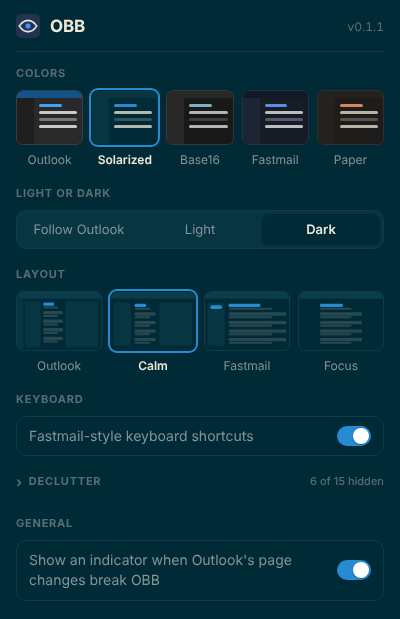
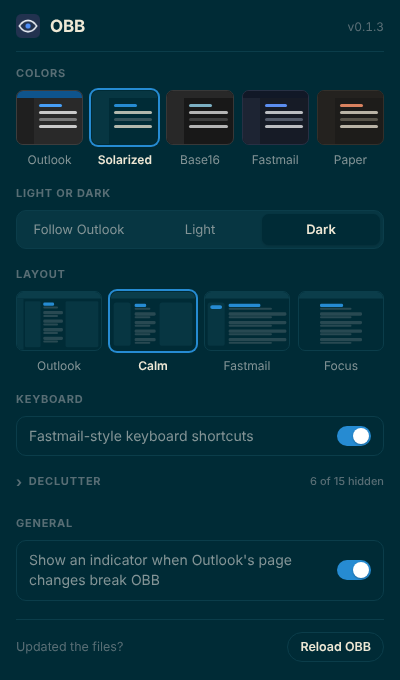
Smooth installs and updates: dist branch, pinned extension id, Reload button
- `mise run release` publishes the build to a `dist` branch (fast-forward only) and zips it;
  CI runs it after green pushes to main and creates a GitHub Release for new versions
- Manifest `key` pins the extension id, so settings survive updates and folder moves
- Popup footer has Reload OBB (chrome.runtime.reload); tabs left on the old content script
  show a one-time "reload this tab" toast
- README install is now clone-once, `git pull` to update

Claude-Session: https://claude.ai/code/session_01NkkmTwGm6oubhSDtYVHp41

diff --git a/scripts/release.ts b/scripts/release.ts
@@ -1,0 +1,87 @@
+// Publishes the built extension (dist/) so installs and updates need no build tools:
+// - commits it to the `dist` branch, which people clone once and `git pull` to update;
+// - writes .cache/obb-<version>.zip for a GitHub Release.
+// Usage: node scripts/release.ts [--push]   (mise run release builds first)
+// Runs the same locally and in CI (.github/workflows/ci.yml).
+
+import { execFileSync } from "node:child_process";
+import { cp, mkdir, readdir, readFile, rm, writeFile } from "node:fs/promises";
+import path from "node:path";
+
+const push = process.argv.includes("--push");
+const git = (args: string[], cwd = ".", quiet = false) =>
+  execFileSync("git", args, {
+    cwd,
+    encoding: "utf8",
+    stdio: ["ignore", "pipe", quiet ? "ignore" : "inherit"],
+  }).trim();
+
+const { version } = JSON.parse(await readFile("dist/manifest.json", "utf8")) as { version: string };
+const source = git(["rev-parse", "--short", "HEAD"]);
+const tree = path.resolve(".cache/dist-branch");
+
+// A worktree on `dist`: the existing branch if there is one, otherwise a fresh orphan.
+await rm(tree, { recursive: true, force: true });
+git(["worktree", "prune"]);
+let exists = true;
+try {
+  git(["fetch", "--quiet", "origin", "dist"], ".", true);
+} catch {
+  exists = false;
+}
+if (exists) {
+  git(["worktree", "add", "--quiet", "-B", "dist", tree, "origin/dist"]);
+} else {
+  git(["worktree", "add", "--quiet", "--detach", tree]);
+  git(["checkout", "--quiet", "--orphan", "dist"], tree);
+  git(["rm", "-rf", "--quiet", "."], tree);
+}
+
+// Replace everything but .git with the build and a short README.
+for (const entry of await readdir(tree)) {
+  if (entry !== ".git") await rm(path.join(tree, entry), { recursive: true, force: true });
+}
+await cp("dist", tree, { recursive: true, filter: (f) => !f.endsWith(".map") });
+await writeFile(
+  path.join(tree, "README.md"),
+  `# OBB ${version}
+
+Built from \`${source}\` on main. Load this folder in Chrome (chrome://extensions → Developer mode
+→ Load unpacked). To update: \`git pull\` here, then click **Reload OBB** in the OBB popup and
+refresh Outlook. Source and docs are on the main branch.
+`,
+);
+
+git(["add", "--all"], tree);
+const changed = git(["status", "--porcelain"], tree) !== "";
+if (changed) {
+  git(
+    [
+      "-c",
+      "user.name=OBB release",
+      "-c",
+      "user.email=obb-release@users.noreply.github.com",
+      "commit",
+      "--quiet",
+      "-m",
+      `OBB ${version} (built from ${source})`,
+    ],
+    tree,
+  );
+  console.log(`dist branch: committed OBB ${version}`);
+} else {
+  console.log("dist branch: already up to date");
+}
+if (push && (changed || !exists)) {
+  git(["push", "--quiet", "origin", "dist"], tree);
+  console.log("dist branch: pushed");
+}
+
+// The zip for a GitHub Release.
+await mkdir(".cache", { recursive: true });
+const zip = path.resolve(`.cache/obb-${version}.zip`);
+await rm(zip, { force: true });
+execFileSync("zip", ["-qr", zip, ".", "-x", ".git*", "-x", "*.map"], { cwd: tree });
+console.log(`wrote ${path.relative(".", zip)}`);
+
+git(["worktree", "remove", "--force", tree]);

diff --git a/src/content.ts b/src/content.ts
@@ -13,7 +13,7 @@ import {
   tagElements,
 } from "./selectors.ts";
 import { applyToDocument, loadSettings, onSettingsChanged, type Settings } from "./settings.ts";
-import { isFromOverlay, isModalOpen, showHealthBadge, showHint } from "./ui/overlay.ts";
+import { isFromOverlay, isModalOpen, showHealthBadge, showHint, toast } from "./ui/overlay.ts";
 
 const LOG = "[obb]";
 const APP_READY_TIMEOUT_MS = 20_000;
@@ -119,6 +119,21 @@ function watchPage(): void {
   }).observe(document.body, { childList: true, subtree: true });
 }
 
+let orphanNoticeShown = false;
+
+/**
+ * After OBB is reloaded or updated, this copy of the content script keeps running in tabs that
+ * were already open, cut off from the extension. Say so once instead of half-working.
+ */
+function isOrphaned(): boolean {
+  if (chrome.runtime?.id) return false;
+  if (!orphanNoticeShown) {
+    orphanNoticeShown = true;
+    toast("OBB was updated. Reload this tab to use the new version.", 8000);
+  }
+  return true;
+}
+
 function isEditable(target: EventTarget | undefined): boolean {
   if (!(target instanceof HTMLElement)) return false;
   return target.isContentEditable || /^(INPUT|TEXTAREA|SELECT)$/.test(target.tagName);
@@ -131,6 +146,7 @@ function mountKeymap(): void {
     "keydown",
     (event) => {
       if (!settings.keymap || !event.isTrusted || isFromOverlay(event) || isModalOpen()) return;
+      if (isOrphaned()) return;
       if (isEditable(event.composedPath()[0])) return;
       const key = keyFromEvent(event);
       if (key === null) return;

diff --git a/test/e2e/harness.ts b/test/e2e/harness.ts
@@ -3,7 +3,7 @@
 // aborted. Also used by scripts/screenshots.ts, which lets Outlook's public CDN through for fonts.
 
 import { createHash } from "node:crypto";
-import { existsSync } from "node:fs";
+import { existsSync, readFileSync } from "node:fs";
 import { readFile } from "node:fs/promises";
 import path from "node:path";
 import { type BrowserContext, chromium, type Page } from "playwright";
@@ -68,9 +68,10 @@ export async function openFixture(
   return page;
 }
 
-/** Chrome derives an unpacked extension's id from its folder path: sha256, hex digits as a–p. */
+/** Chrome derives the id from the manifest's public key: sha256, first 32 hex digits as a–p. */
 export function extensionId(): string {
-  const hex = createHash("sha256").update(path.resolve("dist")).digest("hex").slice(0, 32);
+  const { key } = JSON.parse(readFileSync("manifest.json", "utf8")) as { key: string };
+  const hex = createHash("sha256").update(Buffer.from(key, "base64")).digest("hex").slice(0, 32);
   return [...hex].map((c) => String.fromCharCode(97 + Number.parseInt(c, 16))).join("");
 }
 

diff --git a/src/options/options.css b/src/options/options.css
@@ -375,6 +375,32 @@ details[open] > .toggles {
   margin-top: 8px;
 }
 
+footer {
+  display: flex;
+  align-items: center;
+  justify-content: space-between;
+  gap: 12px;
+  margin-top: 18px;
+  padding-top: 12px;
+  border-top: 1px solid var(--ol-faint);
+  font-size: 12.5px;
+  color: var(--ol-muted);
+}
+
+footer button {
+  all: unset;
+  cursor: pointer;
+  padding: 5px 12px;
+  border-radius: 999px;
+  border: 1px solid var(--ol-faint);
+  color: var(--ol-fg-strong);
+  font-weight: 600;
+}
+
+footer button:hover {
+  background: var(--ol-hover);
+}
+
 :is(button, input, summary):focus-visible {
   outline: 2px solid var(--ol-accent);
   outline-offset: 2px;

diff --git a/src/options/options.ts b/src/options/options.ts
@@ -220,6 +220,8 @@ function render(settings: Settings): void {
 async function main(): Promise<void> {
   const version = document.getElementById("version");
   if (version) version.textContent = `v${chrome.runtime.getManifest().version}`;
+  // Picks up new files on disk (after `git pull` in the install folder); see README.
+  document.getElementById("reload")?.addEventListener("click", () => chrome.runtime.reload());
   let settings = await loadSettings();
   render(settings);
   onSettingsChanged((next) => {

diff --git a/src/options/options.html b/src/options/options.html
@@ -12,6 +12,10 @@
       <span id="version"></span>
     </header>
     <main id="settings"></main>
+    <footer>
+      <span>Updated the files?</span>
+      <button type="button" id="reload">Reload OBB</button>
+    </footer>
     <script src="options.js"></script>
   </body>
 </html>

diff --git a/README.md b/README.md
@@ -84,16 +84,33 @@ Accessibility) first; OBB builds on them.
 
 ## Install
 
+OBB isn't in the Chrome Web Store, so Chrome loads it from a folder. The `dist` branch always
+holds the latest build, so installing and updating are one `git` command each.
+
+**Install once:**
+
 ```sh
-mise install && mise run install   # Node (pinned in mise.toml) and dependencies
-mise run build                     # writes dist/
+git clone --branch dist --single-branch https://github.com/krwenholz/outlook-but-better.git ~/OBB
 ```
 
-Open `chrome://extensions`, turn on **Developer mode**, choose **Load unpacked**, and pick `dist/`.
-Pin OBB from Chrome's puzzle-piece menu for one-click settings.
+Then open `chrome://extensions`, turn on **Developer mode**, choose **Load unpacked**, and pick
+`~/OBB`. Pin OBB from Chrome's puzzle-piece menu for one-click settings.
+
+**Update:**
+
+```sh
+git -C ~/OBB pull
+```
+
+Then click **Reload OBB** at the bottom of the OBB popup and refresh Outlook. Your settings carry
+over: OBB's extension id is fixed, so it survives updates and even moving the folder.
+
+Prefer a download? Each version is also a zip on the
+[Releases](https://github.com/krwenholz/outlook-but-better/releases) page.
 
 ## Develop
 
+To work on OBB itself: `mise install && mise run install`, then load `dist/` instead of `~/OBB`.
 `mise run dev` rebuilds on change (reload the extension afterwards), and `mise run check` runs
 lint, types, unit tests and end-to-end tests in real Chromium against scrubbed Outlook pages.
 `mise run screenshots` and `mise run preview` regenerate the images above. See

diff --git a/docs/decisions.md b/docs/decisions.md
@@ -2,6 +2,24 @@
 
 Settled choices and why, so they are not relitigated. Newest first.
 
+## 2026-11-05: Installs and updates from the `dist` branch
+
+Chrome only auto-updates extensions from the Web Store or ones force-installed by policy, so an
+unpacked install needs some step to update. To make that step tiny:
+- `mise run release` commits the build to a `dist` branch (fast-forward, never force-pushed). An
+  install is a clone of that branch; an update is `git pull` plus **Reload OBB** in the popup
+  (`chrome.runtime.reload()`). CI does this after every green push to main and publishes a
+  GitHub Release with a zip when the manifest version is new.
+- The manifest carries a public `key`, which fixes the extension id regardless of folder, so
+  `chrome.storage.sync` settings survive updates and moves. The private key isn't kept; it's
+  only needed to pack a .crx, which unpacked installs don't use. The Web Store rejects a
+  manifest `key`, so strip it if OBB is ever listed there.
+- Tabs left open across a reload keep the old content script, cut off from the extension; it
+  shows a one-time "reload this tab" toast instead of half-working.
+
+An unlisted Chrome Web Store listing would make updates fully automatic, at the cost of a
+developer account and review. Revisit if this is shared with colleagues.
+
 ## 2026-11-04: Renamed to OBB
 
 The user-facing name is OBB (outlook-but-better). Internal identifiers keep the drafting name:

diff --git a/AGENTS.md b/AGENTS.md
@@ -11,6 +11,7 @@ phases, and `docs/decisions.md` before revisiting a settled choice.
 - `mise run dev`: rebuild `dist/` on change; load `dist/` unpacked in `chrome://extensions`
 - `mise run fmt`: auto-fix lint and formatting
 - `mise run screenshots [name…]` / `mise run preview`: README images and animated preview (preview needs ffmpeg)
+- `mise run release [-- --push]`: publish the build to the `dist` branch and zip it (CI does this on main)
 - `mise run scrub` / `health` / `fixtures:assets`: fixture tooling (see `docs/capturing-pages.md`)
 - `mise tasks` lists the rest
 
